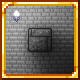
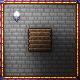
Update to v0.9.8.1

diff --git a/README.md b/README.md
@@ -9,14 +9,5 @@ This mod is not endorsed by the creators of either Terraria or tModLoader.
 
 ## Latest Version
 
-**v0.9.8 (2025-03-02)**
-- Decreased the default normal map strength and the strength of normal maps on walls
-- Decreased bloom strength
-- Slightly decreased content gamma when using full HDR rendering (previously it was boosted)
-- Improved blending between the foreground and the background when using full HDR rendering
-- Tweaked global illumination
-- Made small optimizations to the fancy lighting engine
-- Fixed a bug that occurred when the black tile optimization setting from High FPS Support was enabled
-- Partially fixed a bug that occurred when fighting the Devourer of Gods from Calamity Mod in Infernum Mode
-- Made settings changes seamless
-- Renamed some settings and changed some tooltips
+**v0.9.8.1 (2025-03-04)**
+- Updated the mod icon
